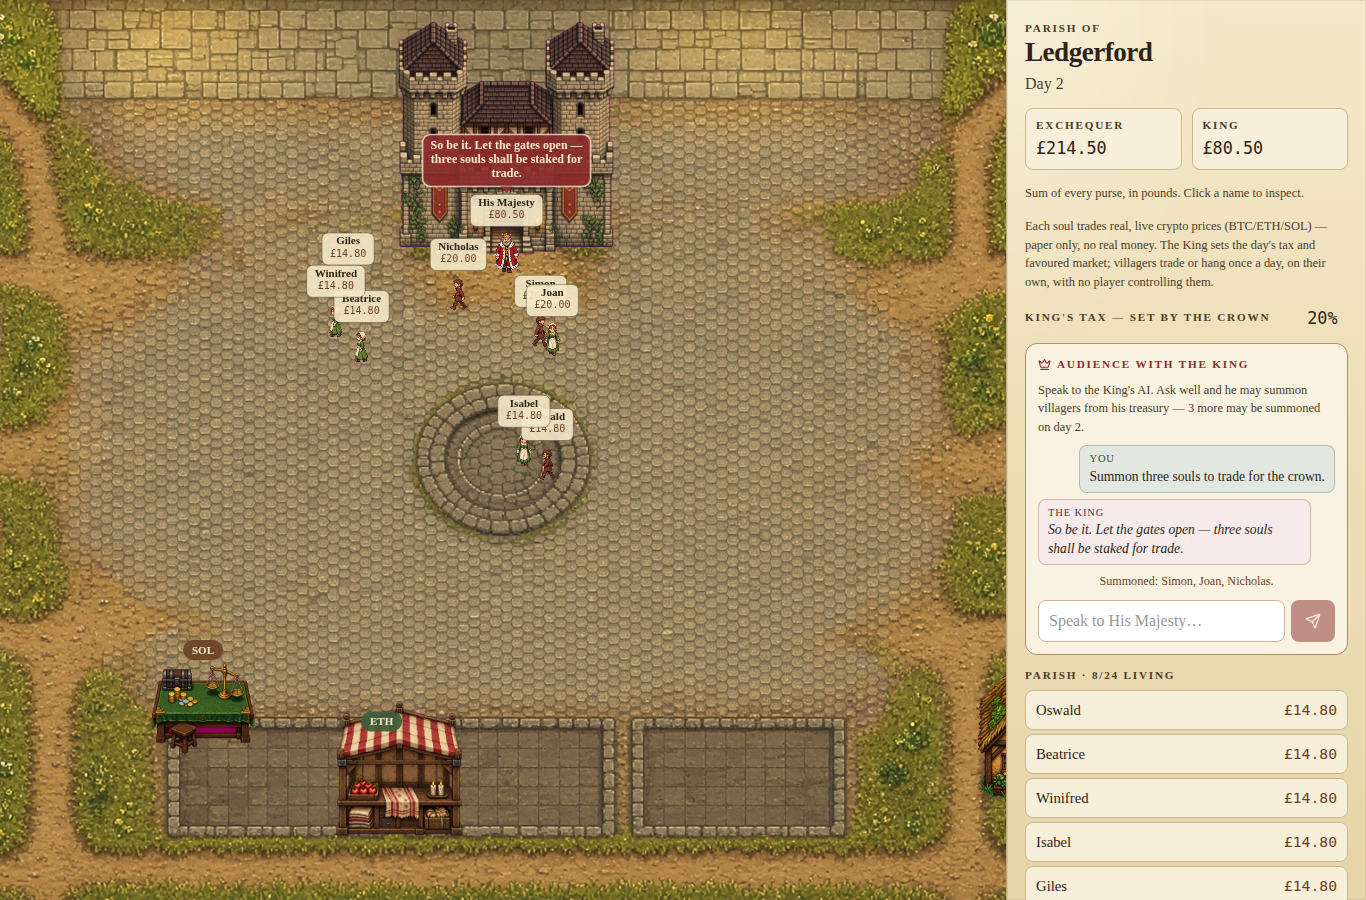
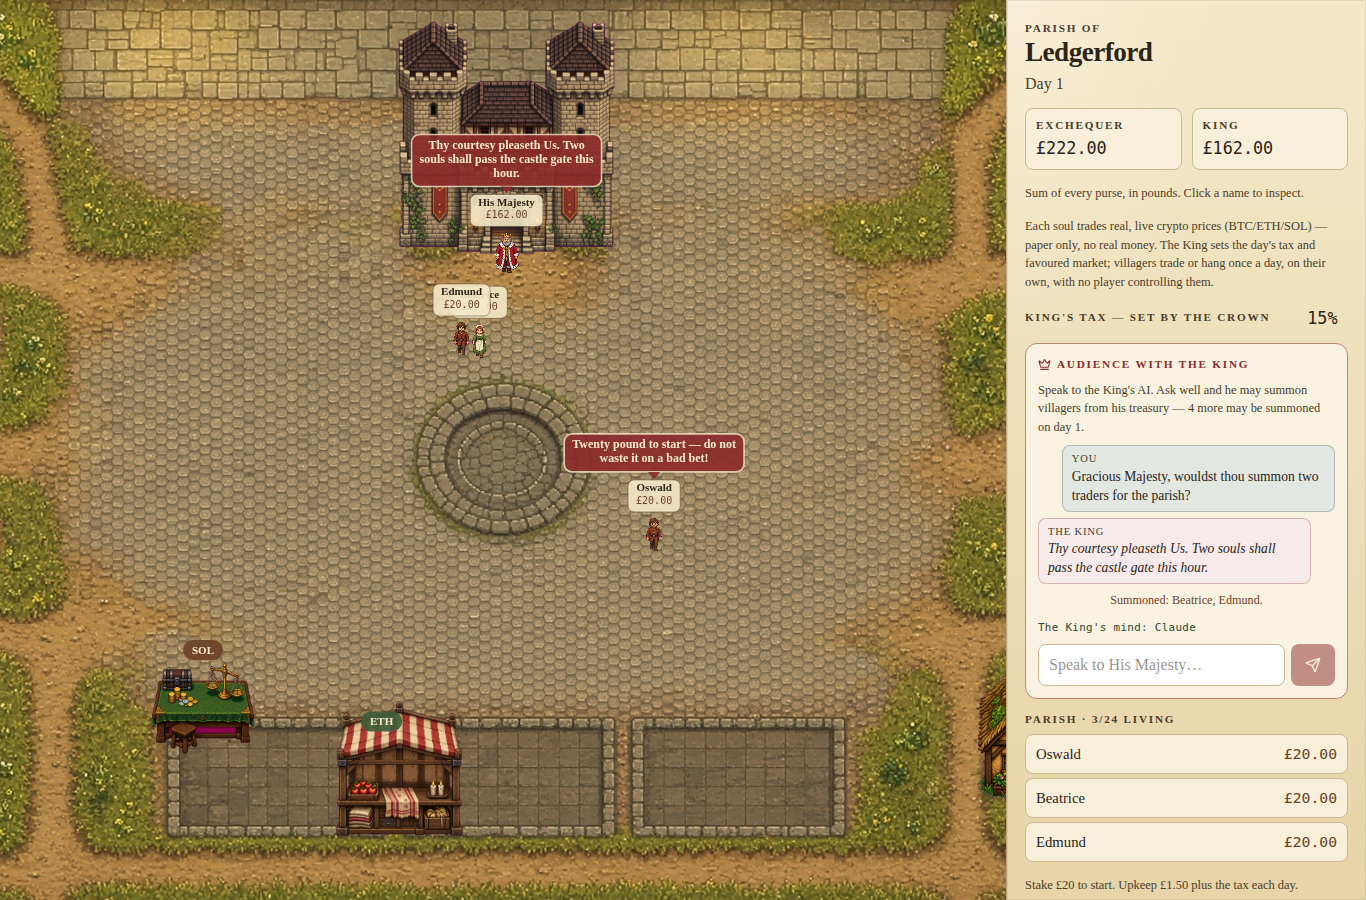
Give the King a real AI: Claude, ahead of Grok and the free fallback
The King (petitions and the daily tick alike) now thinks with Claude
(claude-opus-5, low effort, server-side refusal fallbacks) whenever
ANTHROPIC_API_KEY is set, before the existing Grok → Pollinations →
stock-lines cascade. The free Pollinations endpoint is unreliable without
a key, so without an API key the King was usually on stock replies.

The audience panel now shows which mind answered ("The King's mind:
Claude", or that no AI was reachable), and the chronicle names Claude when
it runs the dawn. askGrokCounsel is renamed askCounsel now that it isn't
Grok-only.

Claude-Session: https://claude.ai/code/session_01QDEdUaSWVxq2SQQUr3tchs

diff --git a/src/game/petition.server.ts b/src/game/petition.server.ts
@@ -8,7 +8,7 @@
  * The visitor's words stay between them and the King — only the fixed-text
  * summons notice goes into the shared chronicle every visitor sees.
  */
-import { askGrokCounsel } from "@/lib/counsel.server";
+import { askCounsel } from "@/lib/counsel.server";
 import { loadWorldRow, saveWorldIfUnchanged, type WorldRow } from "@/lib/world.server";
 import { LIVING_CAP, PETITIONS_PER_DAY, POI, SUMMONS_PER_DAY, SUMMONS_PER_PETITION } from "./constants";
 import { defaultKingPolicy, petitionSummonCount } from "./economy";
@@ -24,10 +24,14 @@ export type PetitionResult = {
   summoned: string[];
   /** Set when the King wanted souls but the crown's rules held him back. */
   limitNote: string | null;
+  /** Which mind answered: "Claude", "Grok", … or null when no AI was reachable. */
+  brain: string | null;
   world: GameState;
 };
 
-type Decision = { say: string; summon: number };
+type Decision = { say: string; summon: number; brain: string | null };
+
+const BRAIN_LABEL = { claude: "Claude", grok: "Grok", pollinations: "Free online wits" } as const;
 
 function living(state: GameState): Subject[] {
   return state.subjects.filter((x) => x.state !== "condemned" && x.state !== "hanging");
@@ -79,7 +83,7 @@ function parseDecision(text: string): Decision | null {
     const say = String(obj.say ?? "").replace(/\s+/g, " ").trim().slice(0, 320);
     if (!say) return null;
     const summon = Number(obj.summon);
-    return { say, summon: Number.isFinite(summon) ? Math.max(0, Math.floor(summon)) : 0 };
+    return { say, summon: Number.isFinite(summon) ? Math.max(0, Math.floor(summon)) : 0, brain: null };
   } catch {
     return null;
   }
@@ -104,10 +108,10 @@ function requestedCount(message: string): number {
 /** No AI answered — the King still hears a plain request for villagers. */
 function heuristicDecision(message: string, max: number): Decision {
   if (!SUMMON_WORDS.test(message)) {
-    return { say: "The King regards thee in silence. Speak plainly, if thou wouldst have souls summoned.", summon: 0 };
+    return { say: "The King regards thee in silence. Speak plainly, if thou wouldst have souls summoned.", summon: 0, brain: null };
   }
   if (max === 0) {
-    return { say: "Not today. The treasury and the parish rolls allow no more souls until the next dawn.", summon: 0 };
+    return { say: "Not today. The treasury and the parish rolls allow no more souls until the next dawn.", summon: 0, brain: null };
   }
   const asked = requestedCount(message);
   const grant = Math.min(asked, max);
@@ -115,13 +119,14 @@ function heuristicDecision(message: string, max: number): Decision {
     grant === 1
       ? "So be it. Let the gates open and one new soul be staked for trade."
       : `So be it. Let the gates open — ${NUMBER_WORDS[grant] ?? grant} souls shall be staked for trade.`;
-  return { say, summon: asked };
+  return { say, summon: asked, brain: null };
 }
 
 async function decide(state: GameState, history: PetitionTurn[], message: string): Promise<Decision> {
-  const res = await askGrokCounsel(kingPrompt(state, history, message));
+  const res = await askCounsel(kingPrompt(state, history, message));
   const parsed = res.ok ? parseDecision(res.text) : null;
-  return parsed ?? heuristicDecision(message, grantable(state));
+  if (res.ok && parsed) return { ...parsed, brain: BRAIN_LABEL[res.source] };
+  return heuristicDecision(message, grantable(state));
 }
 
 /** Apply a decision to a freshly-read world. Pure apart from the RNG seed. */
@@ -181,6 +186,7 @@ export async function petitionKing(message: string, history: PetitionTurn[]): Pr
       reply: "The King has heard petitions enough for one day. Return after the next dawn.",
       summoned: [],
       limitNote: null,
+      brain: null,
       world: row.state,
     };
   }
@@ -194,13 +200,14 @@ export async function petitionKing(message: string, history: PetitionTurn[]): Pr
     if (attempt > 0) row = await loadWorldRow();
     const { next, summoned, limitNote } = applyDecision(row, decision);
     if (await saveWorldIfUnchanged(next, row.rev)) {
-      return { reply: decision.say, summoned, limitNote, world: next };
+      return { reply: decision.say, summoned, limitNote, brain: decision.brain, world: next };
     }
   }
   return {
     reply: decision.say,
     summoned: [],
     limitNote: "The court was too crowded to record thy petition. Try again.",
+    brain: decision.brain,
     world: row.state,
   };
 }

diff --git a/src/lib/counsel.server.ts b/src/lib/counsel.server.ts
@@ -1,18 +1,62 @@
+import Anthropic from "@anthropic-ai/sdk";
+
 /**
- * Grok, falling back to free Pollinations — both plain server-to-server HTTPS
- * calls. Called from the daily-tick cron path (src/game/llm.server.ts) and
- * from petitions to the King (src/lib/petition.ts), which is rate-limited
- * per visitor and capped per day there.
+ * The town's AI cascade: Claude (when ANTHROPIC_API_KEY is set), then Grok
+ * (when XAI_API_KEY is set), then free Pollinations — all server-to-server.
+ * Called from the daily-tick cron path (src/game/llm.server.ts) and from
+ * petitions to the King (src/lib/petition.ts), which is rate-limited per
+ * visitor and capped per day there.
  */
-export async function askGrokCounsel(prompt: string): Promise<
-  | { ok: true; text: string; source: "grok" | "pollinations" }
+export async function askCounsel(prompt: string): Promise<
+  | { ok: true; text: string; source: "claude" | "grok" | "pollinations" }
   | { ok: false; error: string }
 > {
+  const claude = await tryClaude(prompt);
+  if (claude) return { ok: true, text: claude, source: "claude" };
   const grok = await tryGrok(prompt);
   if (grok) return { ok: true, text: grok, source: "grok" };
   const poll = await tryPollinations(prompt);
   if (poll) return { ok: true, text: poll, source: "pollinations" };
   return { ok: false, error: "AI is not available" };
+}
+
+let claudeClient: Anthropic | null = null;
+
+async function tryClaude(prompt: string): Promise<string | null> {
+  if (!process.env.ANTHROPIC_API_KEY?.trim()) return null;
+  claudeClient ??= new Anthropic({ timeout: 40_000, maxRetries: 1 });
+  try {
+    const response = await claudeClient.beta.messages.create({
+      model: "claude-opus-5",
+      max_tokens: 16000,
+      // Short in-character replies and simple trading picks: low effort keeps
+      // the King quick to answer without giving up the model's judgment.
+      output_config: { effort: "low" },
+      // On a policy decline, the API re-runs the request on a fallback model.
+      betas: ["server-side-fallback-2026-07-01"],
+      fallbacks: "default",
+      system:
+        "You are the wits of a 16th-century English market town. Reply with JSON only. No markdown. No jobs. No keys.",
+      messages: [{ role: "user", content: prompt }],
+    });
+    if (response.stop_reason === "refusal") return null;
+    const text = response.content
+      .map((block) => (block.type === "text" ? block.text : ""))
+      .join("")
+      .trim();
+    return text || null;
+  } catch (error) {
+    if (error instanceof Anthropic.AuthenticationError) {
+      console.error("[counsel] ANTHROPIC_API_KEY was rejected — falling back.");
+    } else if (error instanceof Anthropic.RateLimitError) {
+      console.warn("[counsel] Claude rate-limited — falling back.");
+    } else if (error instanceof Anthropic.APIError) {
+      console.warn(`[counsel] Claude API error ${error.status} — falling back.`);
+    } else {
+      console.warn("[counsel] Claude unreachable — falling back.");
+    }
+    return null;
+  }
 }
 
 async function tryGrok(prompt: string): Promise<string | null> {

diff --git a/src/game/llm.server.ts b/src/game/llm.server.ts
@@ -1,13 +1,14 @@
 /**
  * AI counsel for the daily tick — server-only. Everyone (King and every
- * villager) shares one fixed cascade: Grok, then free Pollinations, then the
+ * villager) shares one fixed cascade: Claude, then Grok, then free
+ * Pollinations (see src/lib/counsel.server.ts), then the
  * caller's own heuristic fallback (this module never invents a decision
  * itself; `counselDawn` returns null on total failure). There is no more
  * per-soul model choice — that was a player-facing control, now removed —
  * and no local-model backends (Ollama/LM Studio/on-device), which only ever
  * made sense from a visitor's own browser, not a server cron.
  */
-import { askGrokCounsel } from "@/lib/counsel.server";
+import { askCounsel } from "@/lib/counsel.server";
 import { RENT_GBP, SHOUT_LIFE, SPEECH_LIFE, TAX_MAX, TAX_MIN } from "./constants";
 import { ASSETS, type Asset, type Side } from "./dawn";
 import { trimSpeech } from "./brains";
@@ -191,12 +192,14 @@ function parseCounsel(
 
 /** Grok, then free Pollinations. Both are plain server-to-server HTTPS calls. */
 async function decide(prompt: string): Promise<{ text: string; brain: BrainInfo }> {
-  const res = await askGrokCounsel(prompt);
+  const res = await askCounsel(prompt);
   if (res.ok && res.text.trim()) {
     const brain: BrainInfo =
-      res.source === "pollinations"
-        ? { kind: "pollinations", label: "Free online wits" }
-        : { kind: "grok", label: "Grok (online)" };
+      res.source === "claude"
+        ? { kind: "claude", label: "Claude" }
+        : res.source === "pollinations"
+          ? { kind: "pollinations", label: "Free online wits" }
+          : { kind: "grok", label: "Grok (online)" };
     return { text: res.text, brain };
   }
   throw new Error(res.ok ? "empty reply" : res.error);

diff --git a/src/game/store.ts b/src/game/store.ts
@@ -16,6 +16,8 @@ export type AudienceLine = { id: string; from: "you" | "king" | "note"; text: st
 type ViewState = {
   audience: AudienceLine[];
   petitioning: boolean;
+  /** Which AI answered the last petition; null = none reachable (stock replies); undefined = not asked yet. */
+  kingBrain: string | null | undefined;
   selectedId: string | null;
   loading: boolean;
   /** True once a real server world has been applied (the placeholder is not one). */
@@ -81,6 +83,7 @@ export const useGame = create<Store>((set, get) => ({
   ...freshWorld(0),
   audience: [],
   petitioning: false,
+  kingBrain: undefined,
   selectedId: null,
   loading: true,
   synced: false,
@@ -117,7 +120,7 @@ export const useGame = create<Store>((set, get) => ({
       const notes: AudienceLine[] = [];
       if (res.summoned.length) notes.push(line("note", `Summoned: ${res.summoned.join(", ")}.`));
       if (res.limitNote) notes.push(line("note", res.limitNote));
-      set({ audience: [...get().audience, line("king", res.reply), ...notes].slice(-30) });
+      set({ audience: [...get().audience, line("king", res.reply), ...notes].slice(-30), kingBrain: res.brain });
       // The King says it aloud in the square, too — replacing whatever he
       // was still saying, so two royal bubbles never stack.
       const speech = get().speech.filter((l) => l.fromId !== "king" && l.toId !== "king");

diff --git a/src/game/KingAudience.tsx b/src/game/KingAudience.tsx
@@ -11,6 +11,7 @@ export function KingAudience() {
   const petitioning = useGame((s) => s.petitioning);
   const petition = useGame((s) => s.petition);
   const day = useGame((s) => s.day);
+  const kingBrain = useGame((s) => s.kingBrain);
   const summonedToday = useGame((s) => (s.petitions?.day === s.day ? s.petitions.summoned : 0));
   const [draft, setDraft] = useState("");
   const listRef = useRef<HTMLOListElement>(null);
@@ -62,6 +63,12 @@ export function KingAudience() {
           ))}
         </div>
       )}
+
+      {kingBrain !== undefined ? (
+        <p className="audience-brain" data-live={kingBrain ? "yes" : "no"}>
+          {kingBrain ? `The King's mind: ${kingBrain}` : "No AI reachable — the King is using stock replies."}
+        </p>
+      ) : null}
 
       <form
         className="audience-form"

diff --git a/src/game/types.ts b/src/game/types.ts
@@ -5,7 +5,7 @@ export type KingAction = "hold";
 export type WalkDir = "down" | "left" | "right" | "up";
 export type AgentState = "idle" | "walk" | "work" | "condemned" | "hanging";
 export type BodySheet = "king" | "man" | "woman";
-export type BrainKind = "grok" | "pollinations" | "heuristic";
+export type BrainKind = "claude" | "grok" | "pollinations" | "heuristic";
 
 export type BrainInfo = { kind: BrainKind; label: string };
 

diff --git a/src/styles.css b/src/styles.css
@@ -561,3 +561,15 @@
   opacity: 0.5;
   cursor: default;
 }
+
+.audience-brain {
+  margin: 0;
+  font-family: var(--font-mono);
+  font-size: 0.68rem;
+  letter-spacing: 0.03em;
+  color: var(--color-moss-deep);
+}
+
+.audience-brain[data-live="no"] {
+  color: var(--color-ink-soft);
+}
